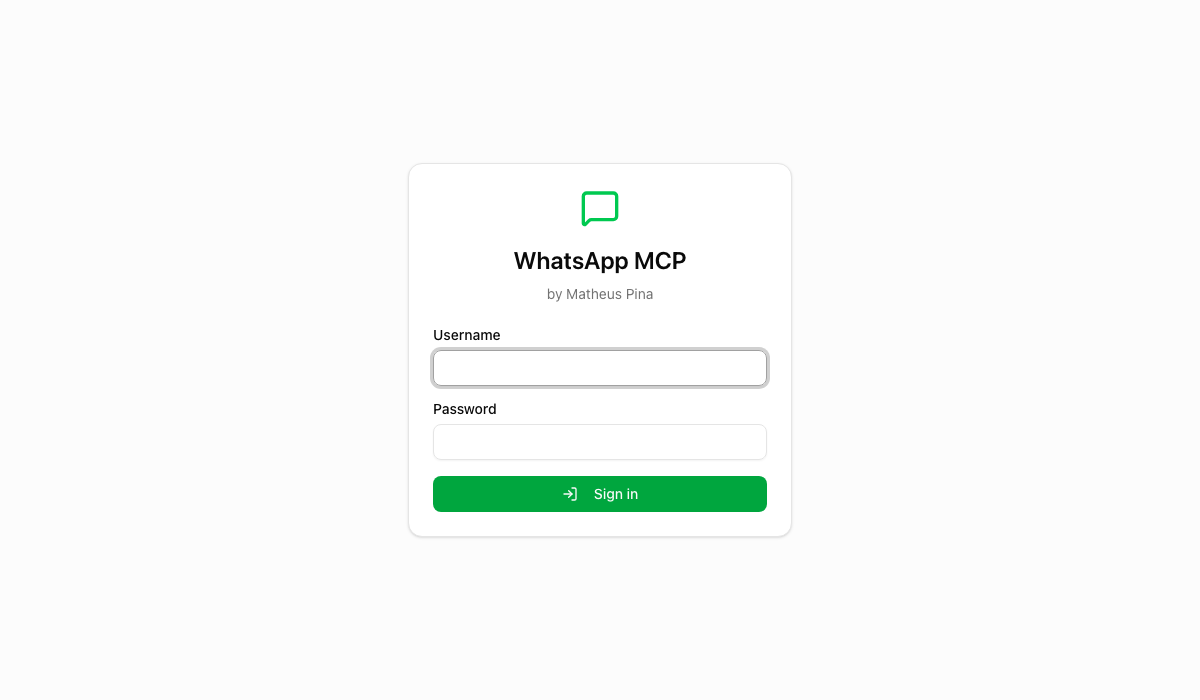
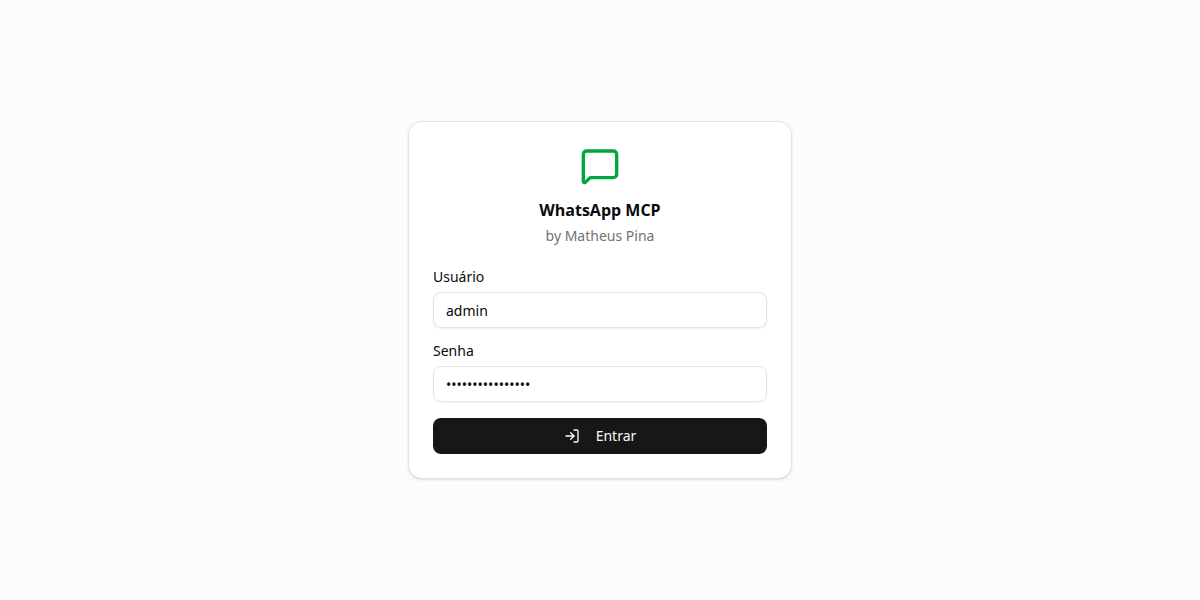
docs: update README screenshots and feature descriptions to reflect new panel UI

Changed region(s): [[0.3392, 0.63, 0.6475, 0.78], [0.3392, 0.45, 0.6475, 0.6], [0.4317, 0.24, 0.5858, 0.45]]

diff --git a/README.md b/README.md
@@ -98,15 +98,19 @@ server of this project. (Text the assistant reads through a tool does reach your
 <table>
   <tr>
     <td width="50%"><img src="docs/assets/screenshot-login.png" alt="Sign-in page"><br><sub><b>Sign in</b> with the username and password from your <code>.env</code></sub></td>
-    <td width="50%"><img src="docs/assets/screenshot-dashboard.png" alt="Device pairing dashboard"><br><sub><b>Pairing and sync status</b></sub></td>
+    <td width="50%"><img src="docs/assets/screenshot-instances.png" alt="WhatsApp numbers"><br><sub><b>WhatsApp numbers</b>, each with an owner, a send permission and its live status</sub></td>
   </tr>
   <tr>
-    <td width="50%"><img src="docs/assets/screenshot-sessions.png" alt="Active sessions"><br><sub><b>Active sessions</b>, kept on the server and visible from any browser</sub></td>
+    <td width="50%"><img src="docs/assets/screenshot-messages.png" alt="Message browser"><br><sub><b>Messages</b> from every number, filtered by department, person, text and date</sub></td>
+    <td width="50%"><img src="docs/assets/screenshot-audit.png" alt="Audit of deleted messages"><br><sub><b>Audit</b> of deleted messages, data access and privacy requests</sub></td>
+  </tr>
+  <tr>
     <td width="50%"><img src="docs/assets/screenshot-webhooks.png" alt="Webhook manager"><br><sub><b>Webhook manager</b></sub></td>
+    <td width="50%"><img src="docs/assets/screenshot-mcp.png" alt="AI assistant connection guide"><br><sub><b>AI assistants</b>: copy the connection command for Claude, Cursor and others</sub></td>
   </tr>
 </table>
 
-<sub>Screenshots use invented data.</sub>
+<sub>Screenshots use invented data. The panel interface is in Portuguese.</sub>
 
 ## Architecture
 
